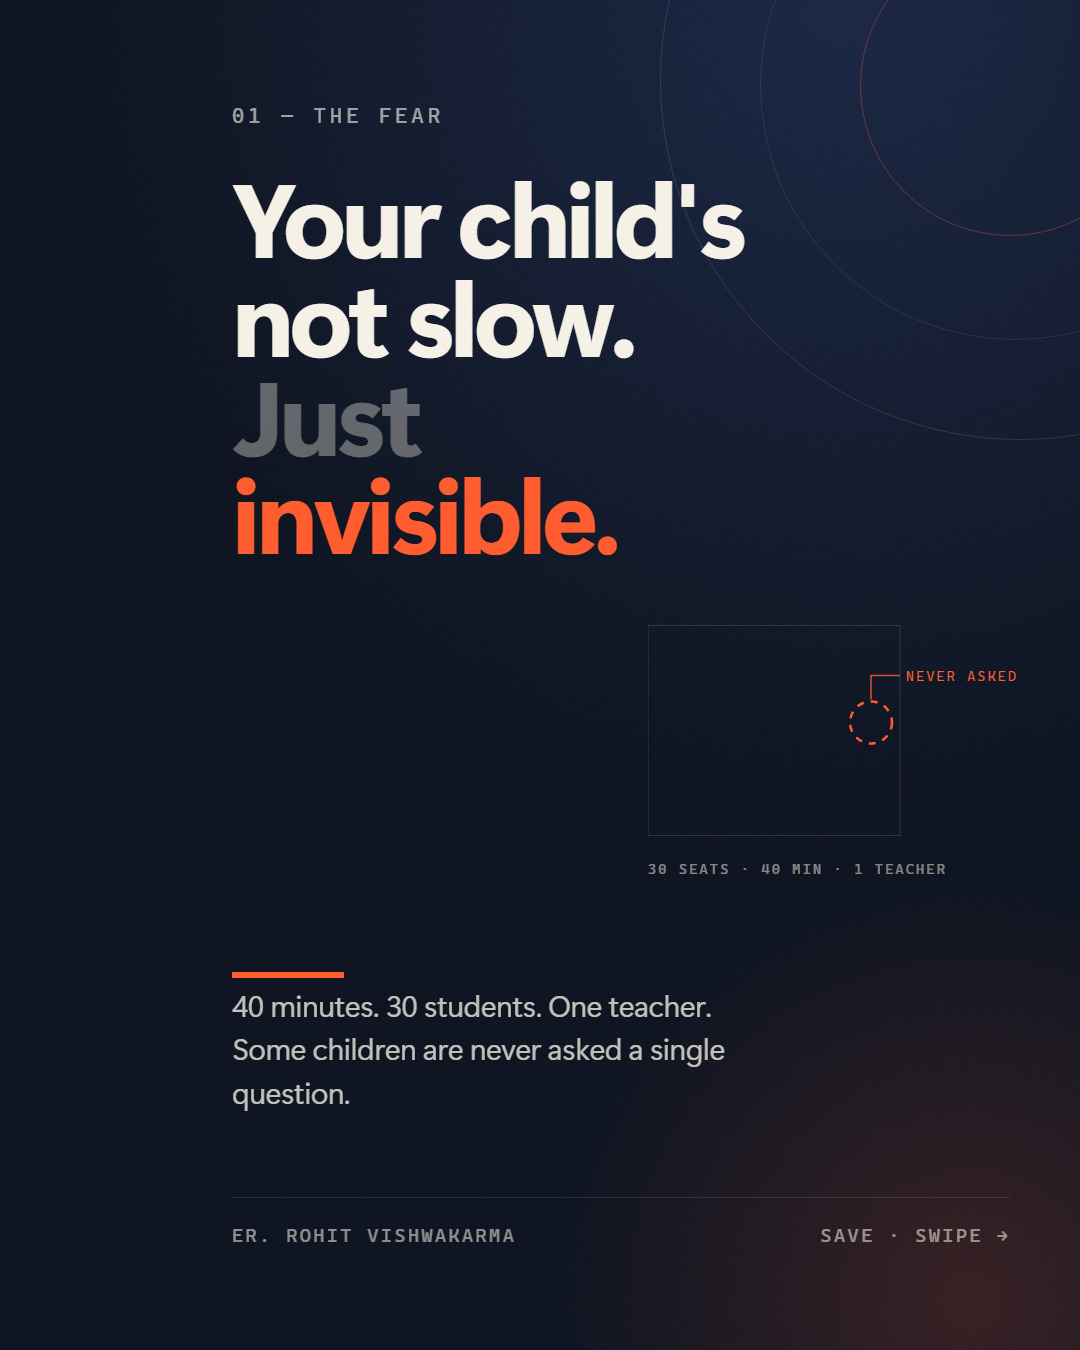
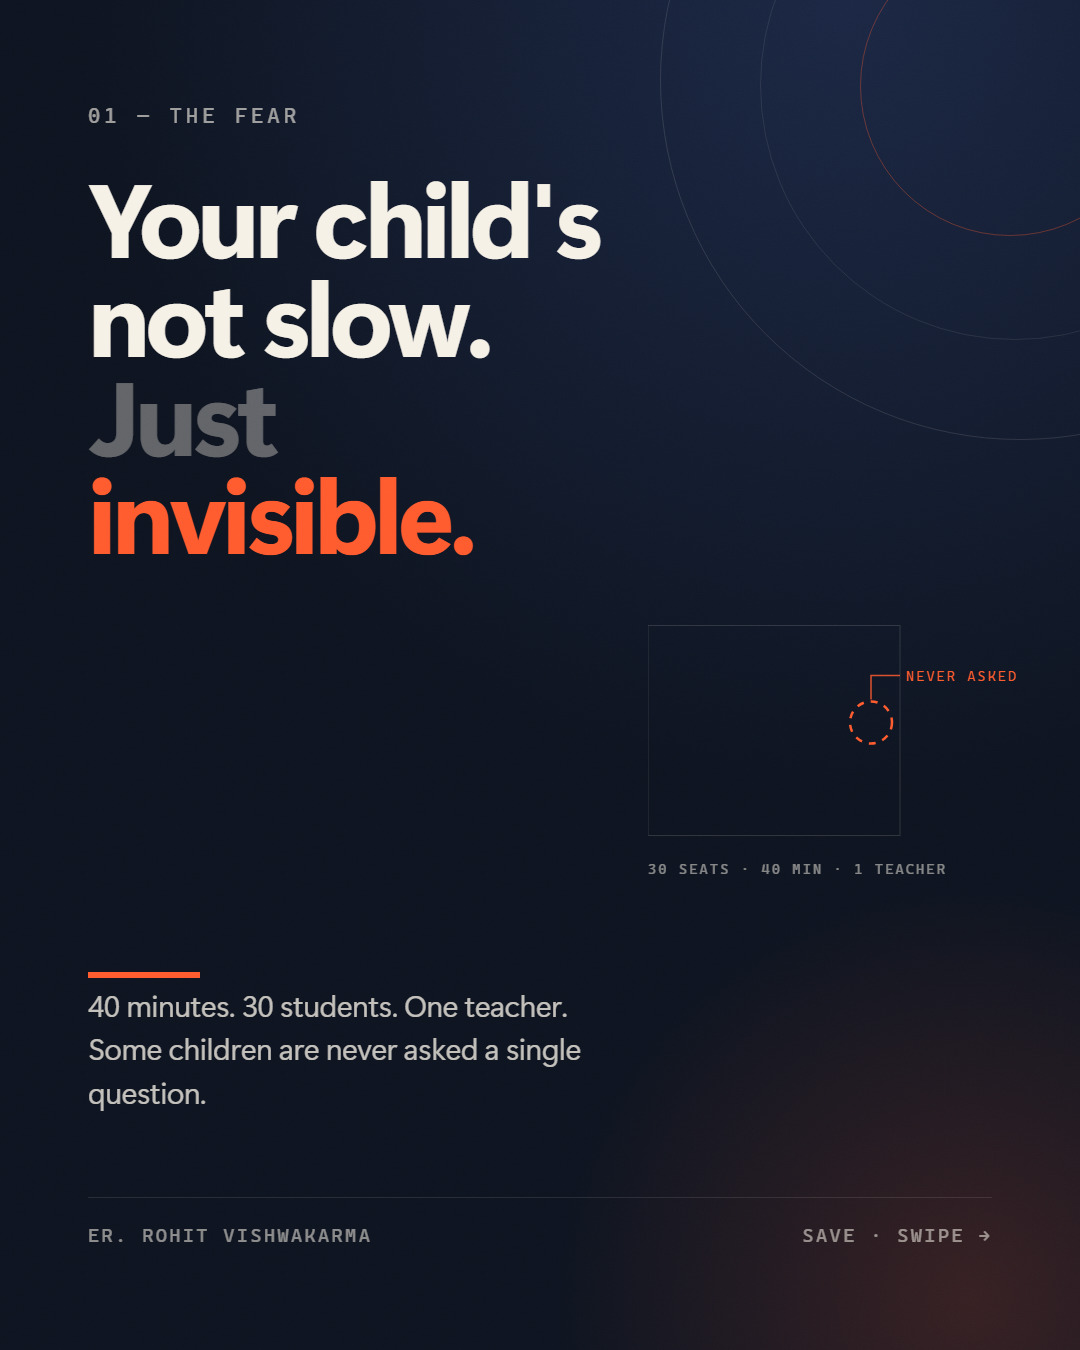
Left-align carousel slide 01 with the rest of the deck

diff --git a/nextgen-creative-kit-45.html b/nextgen-creative-kit-45.html
@@ -108,7 +108,7 @@
   .chip{display:inline-flex;align-items:center;gap:10px;font-family:var(--mono);font-size:16px;letter-spacing:2px;border:1.2px solid rgba(14,20,32,.3);padding:10px 15px;border-radius:2px;background:rgba(255,255,255,.55)}
   .chip i{width:7px;height:7px;border-radius:50%;background:var(--coral);display:block}
   /* ---------- S1 : the fear ---------- */
-  .s1{background:radial-gradient(120% 100% at 78% 0%,#1B2744 0%,#0E1420 58%);padding:82px 60px 82px 220px}
+  .s1{background:radial-gradient(120% 100% at 78% 0%,#1B2744 0%,#0E1420 58%);padding:82px 78px}
   .s1-rings{position:absolute;inset:0;overflow:hidden;pointer-events:none}
   .s1-rings span{position:absolute;border:1px solid rgba(246,241,231,.12);border-radius:50%}
   .s1-rings span:nth-child(1){width:720px;height:720px;right:-300px;top:-280px}
@@ -116,8 +116,8 @@
   .s1-rings span:nth-child(3){width:300px;height:300px;right:-80px;top:-64px;border-color:rgba(255,91,46,.34)}
   .s1-glow{position:absolute;width:940px;height:940px;right:-360px;bottom:-420px;pointer-events:none;
     background:radial-gradient(circle,rgba(255,91,46,.17) 0%,rgba(255,91,46,0) 62%)}
-  .s1 .accent{position:absolute;left:220px;bottom:300px;width:112px;height:6px;background:var(--coral)}
-  .s1 .body{position:absolute;left:220px;bottom:176px;margin:0;font-size:29px;max-width:500px;line-height:1.45}
+  .s1 .accent{position:absolute;left:78px;bottom:300px;width:112px;height:6px;background:var(--coral)}
+  .s1 .body{position:absolute;left:78px;bottom:176px;margin:0;font-size:29px;max-width:500px;line-height:1.45}
   .s1-art{position:absolute;right:40px;bottom:340px;width:360px;height:285px}
 
   /* ---------- S2 : the why ---------- */
@@ -1416,9 +1416,9 @@
   .foot{padding-top:26px}
 
   /* S1 — bottom-anchored copy follows the taller canvas */
-  .s1{padding:104px 70px 104px 232px}
-  .s1 .accent{left:232px;bottom:372px}
-  .s1 .body{left:232px;bottom:236px;font-size:30px;max-width:520px}
+  .s1{padding:104px 88px}
+  .s1 .accent{left:88px;bottom:372px}
+  .s1 .body{left:88px;bottom:236px;font-size:30px;max-width:520px}
   .s1-art{right:52px;bottom:424px;width:380px;height:301px}
 
   /* S2 */

diff --git a/nextgen-creative-kit-riyadh-45.html b/nextgen-creative-kit-riyadh-45.html
@@ -108,7 +108,7 @@
   .chip{display:inline-flex;align-items:center;gap:10px;font-family:var(--mono);font-size:16px;letter-spacing:2px;border:1.2px solid rgba(14,20,32,.3);padding:10px 15px;border-radius:2px;background:rgba(255,255,255,.55)}
   .chip i{width:7px;height:7px;border-radius:50%;background:var(--coral);display:block}
   /* ---------- S1 : the fear ---------- */
-  .s1{background:radial-gradient(120% 100% at 78% 0%,#1B2744 0%,#0E1420 58%);padding:82px 60px 82px 220px}
+  .s1{background:radial-gradient(120% 100% at 78% 0%,#1B2744 0%,#0E1420 58%);padding:82px 78px}
   .s1-rings{position:absolute;inset:0;overflow:hidden;pointer-events:none}
   .s1-rings span{position:absolute;border:1px solid rgba(246,241,231,.12);border-radius:50%}
   .s1-rings span:nth-child(1){width:720px;height:720px;right:-300px;top:-280px}
@@ -116,8 +116,8 @@
   .s1-rings span:nth-child(3){width:300px;height:300px;right:-80px;top:-64px;border-color:rgba(255,91,46,.34)}
   .s1-glow{position:absolute;width:940px;height:940px;right:-360px;bottom:-420px;pointer-events:none;
     background:radial-gradient(circle,rgba(255,91,46,.17) 0%,rgba(255,91,46,0) 62%)}
-  .s1 .accent{position:absolute;left:220px;bottom:300px;width:112px;height:6px;background:var(--coral)}
-  .s1 .body{position:absolute;left:220px;bottom:176px;margin:0;font-size:29px;max-width:500px;line-height:1.45}
+  .s1 .accent{position:absolute;left:78px;bottom:300px;width:112px;height:6px;background:var(--coral)}
+  .s1 .body{position:absolute;left:78px;bottom:176px;margin:0;font-size:29px;max-width:500px;line-height:1.45}
   .s1-art{position:absolute;right:40px;bottom:340px;width:360px;height:285px}
 
   /* ---------- S2 : the why ---------- */
@@ -1443,9 +1443,9 @@
   .foot{padding-top:26px}
 
   /* S1 — bottom-anchored copy follows the taller canvas */
-  .s1{padding:104px 70px 104px 232px}
-  .s1 .accent{left:232px;bottom:372px}
-  .s1 .body{left:232px;bottom:236px;font-size:30px;max-width:520px}
+  .s1{padding:104px 88px}
+  .s1 .accent{left:88px;bottom:372px}
+  .s1 .body{left:88px;bottom:236px;font-size:30px;max-width:520px}
   .s1-art{right:52px;bottom:424px;width:380px;height:301px}
 
   /* S2 */

diff --git a/nextgen-creative-kit-riyadh.html b/nextgen-creative-kit-riyadh.html
@@ -108,7 +108,7 @@
   .chip{display:inline-flex;align-items:center;gap:10px;font-family:var(--mono);font-size:16px;letter-spacing:2px;border:1.2px solid rgba(14,20,32,.3);padding:10px 15px;border-radius:2px;background:rgba(255,255,255,.55)}
   .chip i{width:7px;height:7px;border-radius:50%;background:var(--coral);display:block}
   /* ---------- S1 : the fear ---------- */
-  .s1{background:radial-gradient(120% 100% at 78% 0%,#1B2744 0%,#0E1420 58%);padding:82px 60px 82px 220px}
+  .s1{background:radial-gradient(120% 100% at 78% 0%,#1B2744 0%,#0E1420 58%);padding:82px 78px}
   .s1-rings{position:absolute;inset:0;overflow:hidden;pointer-events:none}
   .s1-rings span{position:absolute;border:1px solid rgba(246,241,231,.12);border-radius:50%}
   .s1-rings span:nth-child(1){width:720px;height:720px;right:-300px;top:-280px}
@@ -116,8 +116,8 @@
   .s1-rings span:nth-child(3){width:300px;height:300px;right:-80px;top:-64px;border-color:rgba(255,91,46,.34)}
   .s1-glow{position:absolute;width:940px;height:940px;right:-360px;bottom:-420px;pointer-events:none;
     background:radial-gradient(circle,rgba(255,91,46,.17) 0%,rgba(255,91,46,0) 62%)}
-  .s1 .accent{position:absolute;left:220px;bottom:300px;width:112px;height:6px;background:var(--coral)}
-  .s1 .body{position:absolute;left:220px;bottom:176px;margin:0;font-size:29px;max-width:500px;line-height:1.45}
+  .s1 .accent{position:absolute;left:78px;bottom:300px;width:112px;height:6px;background:var(--coral)}
+  .s1 .body{position:absolute;left:78px;bottom:176px;margin:0;font-size:29px;max-width:500px;line-height:1.45}
   .s1-art{position:absolute;right:40px;bottom:340px;width:360px;height:285px}
 
   /* ---------- S2 : the why ---------- */

diff --git a/nextgen-creative-kit.html b/nextgen-creative-kit.html
@@ -108,7 +108,7 @@
   .chip{display:inline-flex;align-items:center;gap:10px;font-family:var(--mono);font-size:16px;letter-spacing:2px;border:1.2px solid rgba(14,20,32,.3);padding:10px 15px;border-radius:2px;background:rgba(255,255,255,.55)}
   .chip i{width:7px;height:7px;border-radius:50%;background:var(--coral);display:block}
   /* ---------- S1 : the fear ---------- */
-  .s1{background:radial-gradient(120% 100% at 78% 0%,#1B2744 0%,#0E1420 58%);padding:82px 60px 82px 220px}
+  .s1{background:radial-gradient(120% 100% at 78% 0%,#1B2744 0%,#0E1420 58%);padding:82px 78px}
   .s1-rings{position:absolute;inset:0;overflow:hidden;pointer-events:none}
   .s1-rings span{position:absolute;border:1px solid rgba(246,241,231,.12);border-radius:50%}
   .s1-rings span:nth-child(1){width:720px;height:720px;right:-300px;top:-280px}
@@ -116,8 +116,8 @@
   .s1-rings span:nth-child(3){width:300px;height:300px;right:-80px;top:-64px;border-color:rgba(255,91,46,.34)}
   .s1-glow{position:absolute;width:940px;height:940px;right:-360px;bottom:-420px;pointer-events:none;
     background:radial-gradient(circle,rgba(255,91,46,.17) 0%,rgba(255,91,46,0) 62%)}
-  .s1 .accent{position:absolute;left:220px;bottom:300px;width:112px;height:6px;background:var(--coral)}
-  .s1 .body{position:absolute;left:220px;bottom:176px;margin:0;font-size:29px;max-width:500px;line-height:1.45}
+  .s1 .accent{position:absolute;left:78px;bottom:300px;width:112px;height:6px;background:var(--coral)}
+  .s1 .body{position:absolute;left:78px;bottom:176px;margin:0;font-size:29px;max-width:500px;line-height:1.45}
   .s1-art{position:absolute;right:40px;bottom:340px;width:360px;height:285px}
 
   /* ---------- S2 : the why ---------- */

diff --git a/exports/make-carousel-45.py b/exports/make-carousel-45.py
@@ -18,9 +18,9 @@ CSS = """
   .foot{padding-top:26px}
 
   /* S1 — bottom-anchored copy follows the taller canvas */
-  .s1{padding:104px 70px 104px 232px}
-  .s1 .accent{left:232px;bottom:372px}
-  .s1 .body{left:232px;bottom:236px;font-size:30px;max-width:520px}
+  .s1{padding:104px 88px}
+  .s1 .accent{left:88px;bottom:372px}
+  .s1 .body{left:88px;bottom:236px;font-size:30px;max-width:520px}
   .s1-art{right:52px;bottom:424px;width:380px;height:301px}
 
   /* S2 */
